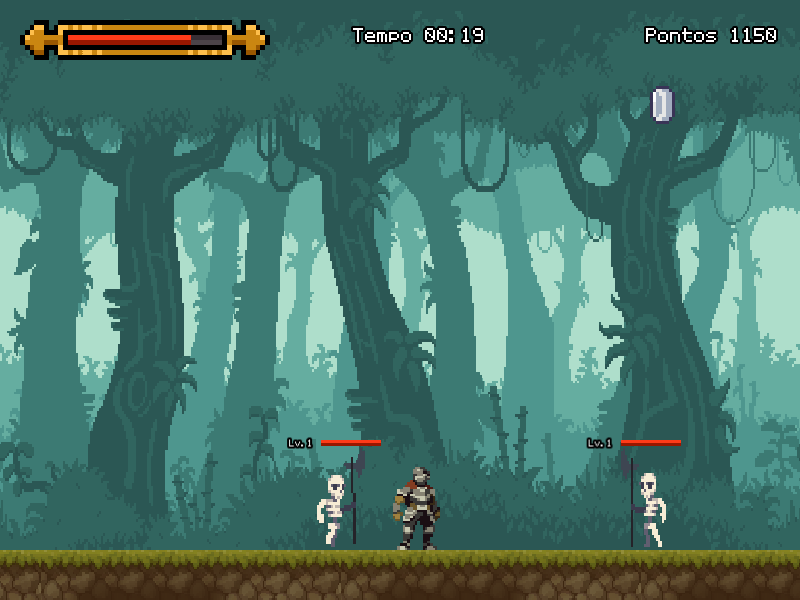
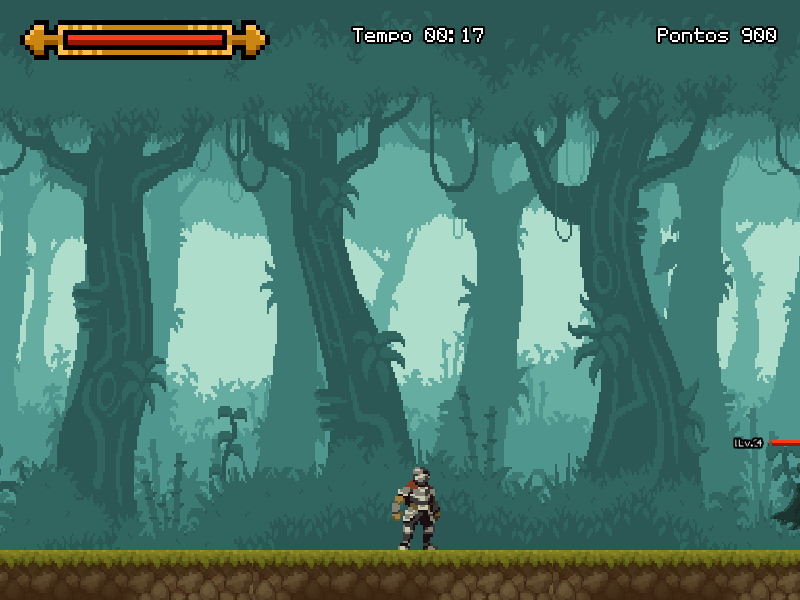
add nova barra vida

diff --git a/Jungle++/src/Entidade/Personagem/Jogador/Jogador.cpp b/Jungle++/src/Entidade/Personagem/Jogador/Jogador.cpp
@@ -104,13 +104,11 @@ namespace Jungle {
 
                 void Jogador::inicializarBarraVida(){
                     sf::Vector2f tamTubo = sf::Vector2f(BARRA_VIDA_JOGADOR_X, BARRA_VIDA_JOGADOR_Y);
-                    sf::Vector2f tamVida = sf::Vector2f(BARRA_VIDA_JOGADOR_X * 61.54f, BARRA_VIDA_JOGADOR_Y * 25.0f);
                     tuboBarraVida.setSize(tamTubo);
-                    //barraVida.setSize(sf::Vector2f(124.0f, 12.0f));
-                    barraVida.setSize(tamVida);
+                    barraVida.setSize(tamTubo);
                     sf::Texture* texturaVida = new sf::Texture(); 
                     sf::Texture* texturaBarra = new sf::Texture();
-                    texturaVida->loadFromFile("Jungle++/img/Personagem/Vida/BarraVida.png");
+                    texturaVida->loadFromFile("Jungle++/img/Personagem/Vida/BarraVidaJogador.png");
                     texturaBarra->loadFromFile("Jungle++/img/Personagem/Vida/Barra.png");
                     barraVida.setTexture(texturaVida);
                     tuboBarraVida.setTexture(texturaBarra);
@@ -131,11 +129,11 @@ namespace Jungle {
                 void Jogador::atualizarBarraVida(){
                     sf::Vector2f posJanela = pGrafico->getCamera().getCenter();
                     sf::Vector2f tamJanela = pGrafico->getTamJanela();
-                    sf::Vector2f posBarra = sf::Vector2f(posJanela.x - tamJanela.x / 2.0f + 20.0f, posJanela.y - tamJanela.y / 2.0f + 20.0f);
-                    sf::Vector2f tamVida = sf::Vector2f(BARRA_VIDA_JOGADOR_X * 0.6154f, BARRA_VIDA_JOGADOR_Y * 0.25f);
+                    sf::Vector2f posBarra = sf::Vector2f(posJanela.x - tamJanela.x / 2.0f + 10.0f, posJanela.y + tamJanela.y / 2.0f - 30.0f);
                     tuboBarraVida.setPosition(posBarra);
-                    barraVida.setSize(sf::Vector2f(tamVida.x * (vida / 100.0f), tamVida.y));
-                    barraVida.setPosition(sf::Vector2f(posBarra.x + BARRA_VIDA_JOGADOR_X * 0.1923f, posBarra.y + BARRA_VIDA_JOGADOR_Y / 2.0f - barraVida.getSize().y / 2.0f));
+                    barraVida.setSize(sf::Vector2f(BARRA_VIDA_JOGADOR_X * (vida / 100.0f), BARRA_VIDA_JOGADOR_Y));
+                    barraVida.setPosition(posBarra);
+                    textoNivel.setPos(sf::Vector2f(posBarra.x + 5.0f, posBarra.y - textoNivel.getTam().y - 5.0f));
                 }
 
                 void Jogador::atualizarAnimacao(){
@@ -162,7 +160,8 @@ namespace Jungle {
                 }
 
                 void Jogador::inicializarNivel(){
-                    textoNivel.setString(std::to_string(nivel.getNivel()));
+                    textoNivel.setString("Lv." + std::to_string(nivel.getNivel()));
+                    textoNivel.setTamanhoBorda(2);
                     nivel.setForca(FORCA_JOGADOR);
                     nivel.setDefesa(DEFESA_JOGADOR);
                     nivel.setVitalidade(VITALIDADE_JOGADOR);
@@ -252,6 +251,7 @@ namespace Jungle {
 
                 void Jogador::addExperiencia(const float experiencia){
                     nivel.addExp(experiencia);
+                    textoNivel.setString("Lv." + std::to_string(nivel.getNivel()));
                 }
 
                 void Jogador::setVida(const float vida){
@@ -296,6 +296,7 @@ namespace Jungle {
                     pGrafico->desenhaElemento(corpo);
                     pGrafico->desenhaElemento(tuboBarraVida);
                     pGrafico->desenhaElemento(barraVida);
+                    pGrafico->desenhaElemento(textoNivel.getTexto());
                 }
 
                 void Jogador::atualizar(){

diff --git a/Jungle++/src/Fase/FlorestaBranca.cpp b/Jungle++/src/Fase/FlorestaBranca.cpp
@@ -94,6 +94,9 @@ namespace Jungle {
         }
 
         void FlorestaBranca::criarMapa(){
+            for(int i = -2; i < 8; i++){
+                criarPlataforma(sf::Vector2f(i * 300.0f, 550.0f));
+            }
             Entidade::Personagem::Jogador::Jogador* pJogador = criarJogador(sf::Vector2f(100.0f, 400.0f));
             criarMoeda(sf::Vector2f(300.0f, 500.0f), IDs::IDs::moeda_amarela);
             criarMoeda(sf::Vector2f(1200.0f, 80.0f), IDs::IDs::moeda_cinza);
@@ -107,10 +110,6 @@ namespace Jungle {
             }
             criarAlma(sf::Vector2f(200.0f, 500.0f), 2, pJogador);
             criarAlma(sf::Vector2f(500.0f, 500.0f), 4, pJogador);
-
-            for(int i = -2; i < 8; i++){
-                criarPlataforma(sf::Vector2f(i * 300.0f, 550.0f));
-            }
         }
 
     }

diff --git a/Jungle++/include/Entidade/Personagem/Jogador/Jogador.hpp b/Jungle++/include/Entidade/Personagem/Jogador/Jogador.hpp
@@ -10,8 +10,8 @@
 #define TAMANHO_ESPADA_X 80.0f
 #define TEMPO_JOGADOR_MORRER 1.0f
 #define TEMPO_JOGADOR_TOMARDANO 0.30f
-#define BARRA_VIDA_JOGADOR_X 250.0f
-#define BARRA_VIDA_JOGADOR_Y 40.0f
+#define BARRA_VIDA_JOGADOR_X 350.0f
+#define BARRA_VIDA_JOGADOR_Y 20.0f
 #define DANO 35.0f
 #define FORCA_JOGADOR 50.0f
 #define DEFESA_JOGADOR 20.0f

diff --git a/Jungle++/src/Fase/Fase.cpp b/Jungle++/src/Fase/Fase.cpp
@@ -326,8 +326,8 @@ namespace Jungle {
                 atualizarPontuacao();
 
                 //atualiza e desenha entidades
-                listaPersonagens->executar();
                 listaObstaculos->executar();
+                listaPersonagens->executar();
 
                 //verifica colisão
                 pColisao->executar();
